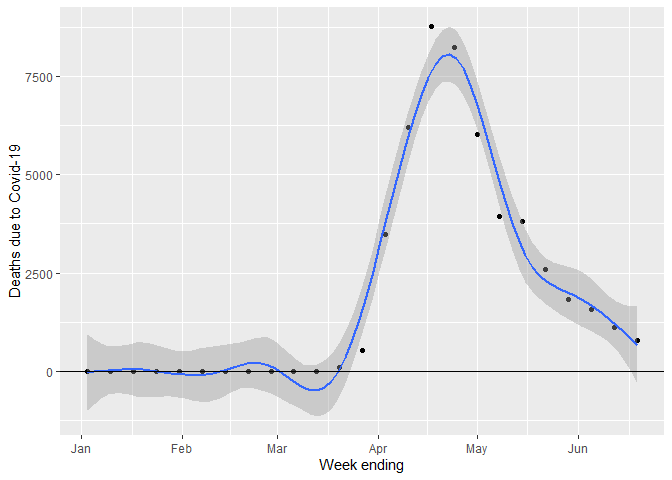
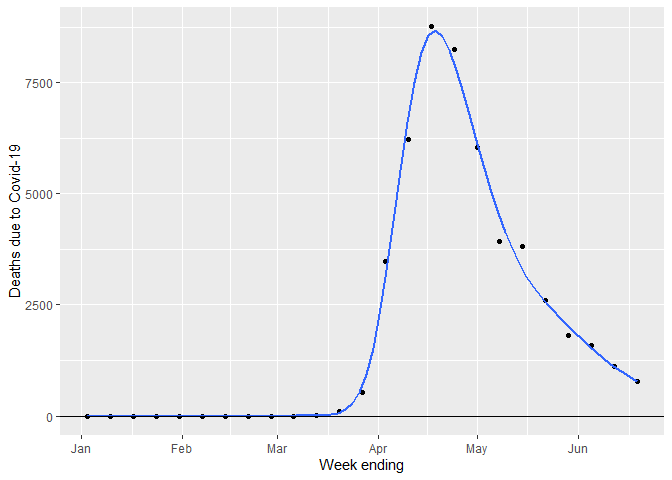
Fixed the GAMs to use the poisson family

diff --git a/README.md b/README.md
@@ -2,7 +2,7 @@ Using ggplot2 to visualise Covid-19 deaths the UK
 ================
 Andi (<almost@gmail.com>,
 @[inductivestep](https://twitter.com/InductiveStep))
-03 July 2020
+04 July 2020
 
 This script shows how to use ggplot2, with the help of some other
 tidyverse tools, to plot UK Covid-19 deaths data.
@@ -241,7 +241,8 @@ death2 %>%
   geom_point(aes(color=`Day of week`)) +
   geom_hline(yintercept=0) +
   geom_smooth(method = "gam",
-              formula = y ~ s(x, bs = "cr"),
+              formula = y ~ s(x, bs = "cs"),
+              method.args = list(family = "poisson"),
               se = F,
               col = "darkgrey")
 ```
@@ -359,7 +360,10 @@ death_week %>%
   filter(Days == 7) %>%
   ggplot(aes(x = Week, y = `Weekly Deaths`)) +
   geom_point() +
-  geom_smooth(method = "gam", formula = y ~ s(x, bs = "cs"), se = T) +
+  geom_smooth(method = "gam",
+              formula = y ~ s(x, bs = "cs"),
+              method.args = list(family = "poisson"),
+              se = F) +
   geom_hline(yintercept=0) 
 ```
 
@@ -384,7 +388,7 @@ death_week %>%
   ggplot(aes(x = Week, y = Change)) +
   geom_point() +
   geom_hline(yintercept=0) +
-  geom_smooth(method = "gam", formula = y ~ s(x, bs = "cs"), se = T) +
+  geom_smooth(method = "gam", formula = y ~ s(x, bs = "cs"), se = F) +
   ylab("Change in number of deaths since previous week")
 ```
 
@@ -583,8 +587,9 @@ ons_dat %>%
   geom_point() +
   ylab("Deaths due to Covid-19") +
   geom_smooth(method = "gam",
-              formula = y ~ s(x, bs = "cr"),
-              se = T) +
+              formula = y ~ s(x, bs = "cs"),
+              method.args = list(family = "poisson"),
+              se = F) +
   geom_hline(yintercept=0)
 ```
 
